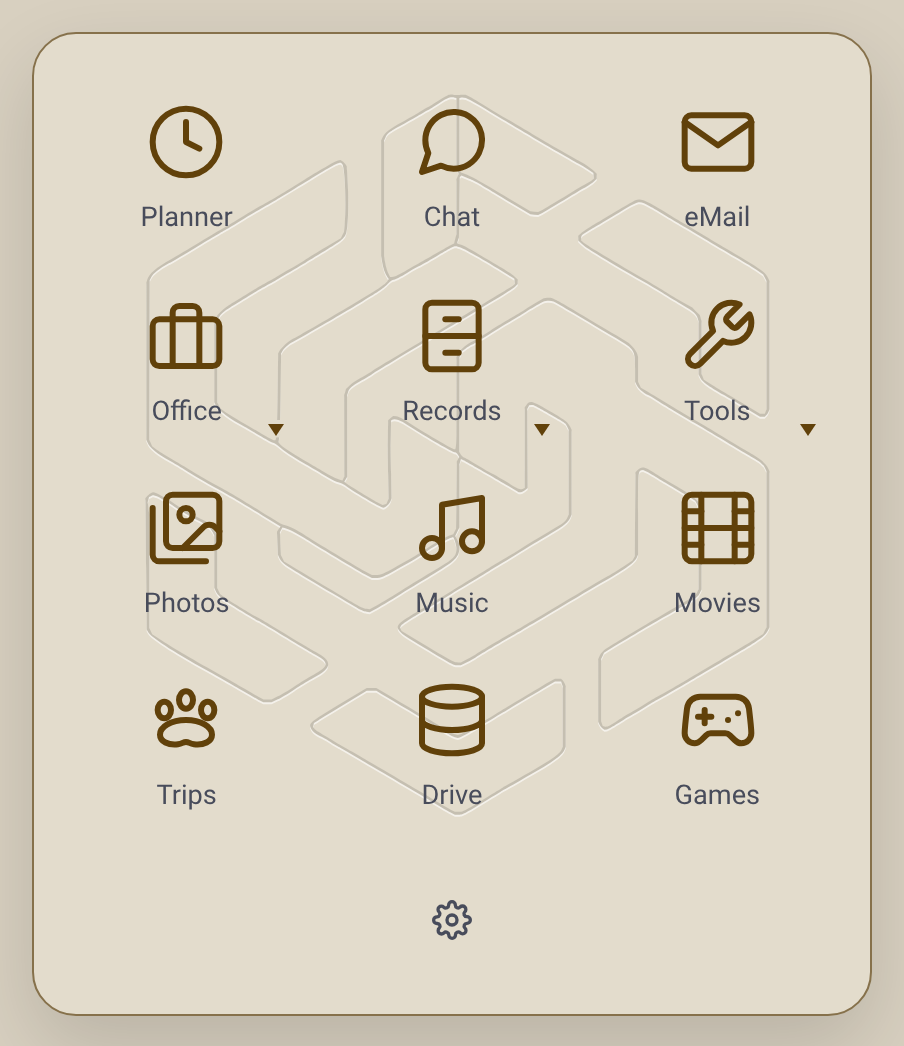
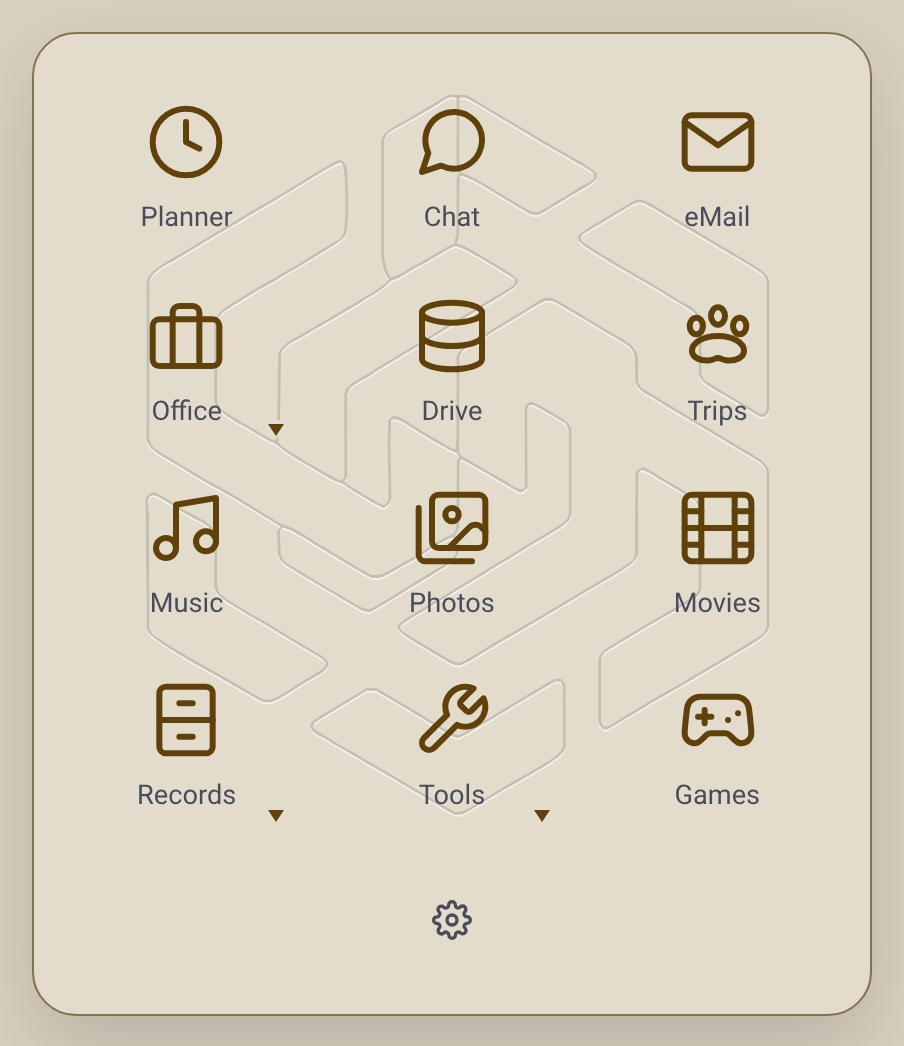
Launcher: rows by theme (talk / files+trips / media / groups+games); new README picture

diff --git a/client/apps/index.html b/client/apps/index.html
@@ -438,8 +438,8 @@
       <div class="apps-panel">
 
         <div class="grid">
-            <!-- 4 rows of 3 (2026-10-28): Planner+Chat+eMail / Office+Records+Tools / Photos+Music+Movies /
-                 Trips+Drive+Games -->
+            <!-- 4 rows of 3 (2026-11-12): Planner+Chat+eMail / Office+Drive+Trips /
+                 Music+Photos+Movies / Records+Tools+Games -->
             <!-- Calendar and Tasks have no tile of their own (2026-09-06): both open inside Planner. -->
             <!-- Planner: today's events still to come ride on its icon (2026-10-28). -->
             <a class="btn large" id="plannerBtn" href="planner/index.html">
@@ -467,6 +467,28 @@
                 <svg viewBox="0 0 24 24" fill="none" stroke="currentColor" stroke-width="1.8" stroke-linecap="round" stroke-linejoin="round"><rect x="2" y="7" width="20" height="14" rx="2"></rect><path d="M16 21V5a2 2 0 0 0-2-2h-4a2 2 0 0 0-2 2v16"></path></svg>
                 <span>Office</span>
             </button>
+            <a class="btn large" href="drive/index.html">
+                <svg viewBox="0 0 24 24" fill="none" stroke="currentColor" stroke-width="1.8" stroke-linecap="round" stroke-linejoin="round"><ellipse cx="12" cy="5" rx="9" ry="3"></ellipse><path d="M21 12c0 1.66-4.03 3-9 3s-9-1.34-9-3"></path><path d="M3 5v14c0 1.66 4.03 3 9 3s9-1.34 9-3V5"></path></svg>
+                <span>Drive</span>
+            </a>
+            <a class="btn large" href="trips/index.html">
+                <svg viewBox="0 0 24 24" fill="none" stroke="currentColor" stroke-width="1.8" stroke-linecap="round" stroke-linejoin="round"><ellipse cx="5.5" cy="9" rx="2" ry="2.5"></ellipse><ellipse cx="12" cy="6" rx="2.1" ry="2.6"></ellipse><ellipse cx="18.5" cy="9" rx="2" ry="2.5"></ellipse><path d="M12 12c-4.5 0-7.8 2-7.8 4.4 0 2 2.55 3.3 5.4 2.9 1.35-.2 1.5-.7 2.4-.7s1.05.5 2.4.7c2.85.4 5.4-.9 5.4-2.9C19.8 14 16.5 12 12 12z"></path></svg>
+                <span>Trips</span>
+            </a>
+
+            <a class="btn large" href="music/index.html">
+                <svg viewBox="0 0 24 24" fill="none" stroke="currentColor" stroke-width="1.8" stroke-linecap="round" stroke-linejoin="round"><path d="M9 18V5l12-2v13"></path><circle cx="6" cy="18" r="3"></circle><circle cx="18" cy="16" r="3"></circle></svg>
+                <span>Music</span>
+            </a>
+            <a class="btn large" href="photos/index.html">
+                <svg viewBox="0 0 24 24" fill="none" stroke="currentColor" stroke-width="1.8" stroke-linecap="round" stroke-linejoin="round"><rect x="6" y="2" width="16" height="16" rx="2"></rect><circle cx="12" cy="8" r="2"></circle><path d="m22 13-1.3-1.3a2.4 2.4 0 0 0-3.4 0L11 18"></path><path d="M18 22H4a2 2 0 0 1-2-2V6"></path></svg>
+                <span>Photos</span>
+            </a>
+            <a class="btn large" href="movies/index.html">
+                <svg viewBox="0 0 24 24" fill="none" stroke="currentColor" stroke-width="1.8" stroke-linecap="round" stroke-linejoin="round"><rect x="2" y="2" width="20" height="20" rx="2.18"></rect><line x1="7" y1="2" x2="7" y2="22"></line><line x1="17" y1="2" x2="17" y2="22"></line><line x1="2" y1="12" x2="22" y2="12"></line><line x1="2" y1="7" x2="7" y2="7"></line><line x1="2" y1="17" x2="7" y2="17"></line><line x1="17" y1="17" x2="22" y2="17"></line><line x1="17" y1="7" x2="22" y2="7"></line></svg>
+                <span>Movies</span>
+            </a>
+
             <!-- Records (2026-09-23): Contacts and Bookmarks in a popup (#recordsMenu, under the grid). -->
             <button class="btn large" id="recordsBtn" type="button" popovertarget="recordsMenu" aria-haspopup="true">
                 <svg viewBox="0 0 24 24" fill="none" stroke="currentColor" stroke-width="1.8" stroke-linecap="round" stroke-linejoin="round"><rect x="4" y="2" width="16" height="20" rx="2"></rect><line x1="4" y1="12" x2="20" y2="12"></line><line x1="10" y1="7" x2="14" y2="7"></line><line x1="10" y1="17" x2="14" y2="17"></line></svg>
@@ -478,28 +500,6 @@
                 <svg viewBox="0 0 24 24" fill="none" stroke="currentColor" stroke-width="1.8" stroke-linecap="round" stroke-linejoin="round"><path d="M14.7 6.3a1 1 0 0 0 0 1.4l1.6 1.6a1 1 0 0 0 1.4 0l3.77-3.77a6 6 0 0 1-7.94 7.94l-6.91 6.91a2.12 2.12 0 0 1-3-3l6.91-6.91a6 6 0 0 1 7.94-7.94l-3.76 3.76z"></path></svg>
                 <span>Tools</span>
             </button>
-
-            <a class="btn large" href="photos/index.html">
-                <svg viewBox="0 0 24 24" fill="none" stroke="currentColor" stroke-width="1.8" stroke-linecap="round" stroke-linejoin="round"><rect x="6" y="2" width="16" height="16" rx="2"></rect><circle cx="12" cy="8" r="2"></circle><path d="m22 13-1.3-1.3a2.4 2.4 0 0 0-3.4 0L11 18"></path><path d="M18 22H4a2 2 0 0 1-2-2V6"></path></svg>
-                <span>Photos</span>
-            </a>
-            <a class="btn large" href="music/index.html">
-                <svg viewBox="0 0 24 24" fill="none" stroke="currentColor" stroke-width="1.8" stroke-linecap="round" stroke-linejoin="round"><path d="M9 18V5l12-2v13"></path><circle cx="6" cy="18" r="3"></circle><circle cx="18" cy="16" r="3"></circle></svg>
-                <span>Music</span>
-            </a>
-            <a class="btn large" href="movies/index.html">
-                <svg viewBox="0 0 24 24" fill="none" stroke="currentColor" stroke-width="1.8" stroke-linecap="round" stroke-linejoin="round"><rect x="2" y="2" width="20" height="20" rx="2.18"></rect><line x1="7" y1="2" x2="7" y2="22"></line><line x1="17" y1="2" x2="17" y2="22"></line><line x1="2" y1="12" x2="22" y2="12"></line><line x1="2" y1="7" x2="7" y2="7"></line><line x1="2" y1="17" x2="7" y2="17"></line><line x1="17" y1="17" x2="22" y2="17"></line><line x1="17" y1="7" x2="22" y2="7"></line></svg>
-                <span>Movies</span>
-            </a>
-
-            <a class="btn large" href="trips/index.html">
-                <svg viewBox="0 0 24 24" fill="none" stroke="currentColor" stroke-width="1.8" stroke-linecap="round" stroke-linejoin="round"><ellipse cx="5.5" cy="9" rx="2" ry="2.5"></ellipse><ellipse cx="12" cy="6" rx="2.1" ry="2.6"></ellipse><ellipse cx="18.5" cy="9" rx="2" ry="2.5"></ellipse><path d="M12 12c-4.5 0-7.8 2-7.8 4.4 0 2 2.55 3.3 5.4 2.9 1.35-.2 1.5-.7 2.4-.7s1.05.5 2.4.7c2.85.4 5.4-.9 5.4-2.9C19.8 14 16.5 12 12 12z"></path></svg>
-                <span>Trips</span>
-            </a>
-            <a class="btn large" href="drive/index.html">
-                <svg viewBox="0 0 24 24" fill="none" stroke="currentColor" stroke-width="1.8" stroke-linecap="round" stroke-linejoin="round"><ellipse cx="12" cy="5" rx="9" ry="3"></ellipse><path d="M21 12c0 1.66-4.03 3-9 3s-9-1.34-9-3"></path><path d="M3 5v14c0 1.66 4.03 3 9 3s9-1.34 9-3V5"></path></svg>
-                <span>Drive</span>
-            </a>
             <!-- Habits has no tile (2026-09-06): it opens inside Planner. -->
             <a class="btn large" href="games/index.html">
                 <svg viewBox="0 0 24 24" fill="none" stroke="currentColor" stroke-width="1.8" stroke-linecap="round" stroke-linejoin="round"><line x1="6" y1="11" x2="10" y2="11"></line><line x1="8" y1="9" x2="8" y2="13"></line><line x1="15" y1="12" x2="15.01" y2="12"></line><line x1="18" y1="10" x2="18.01" y2="10"></line><path d="M17.32 5H6.68a4 4 0 0 0-3.98 3.59c-.08.67-.7 5.87-.7 7.41a3 3 0 0 0 3 3c1 0 1.5-.5 2-1l1.41-1.41A2 2 0 0 1 9.83 16h4.34a2 2 0 0 1 1.41.59L17 18c.5.5 1 1 2 1a3 3 0 0 0 3-3c0-1.54-.62-6.74-.7-7.41A4 4 0 0 0 17.32 5z"></path></svg>
